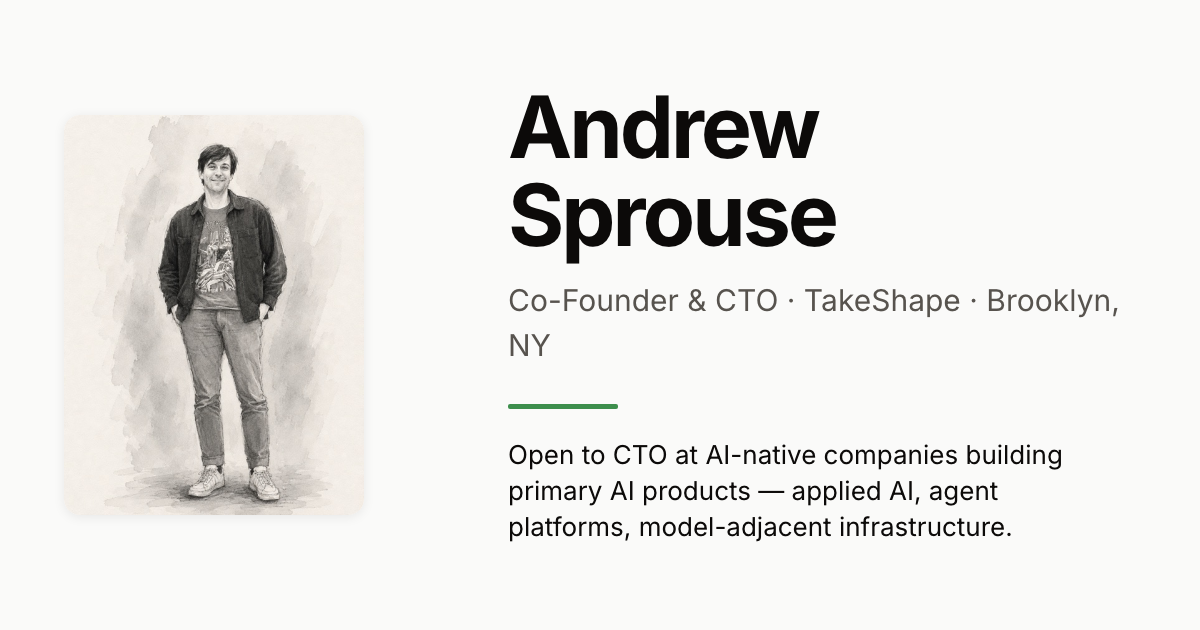
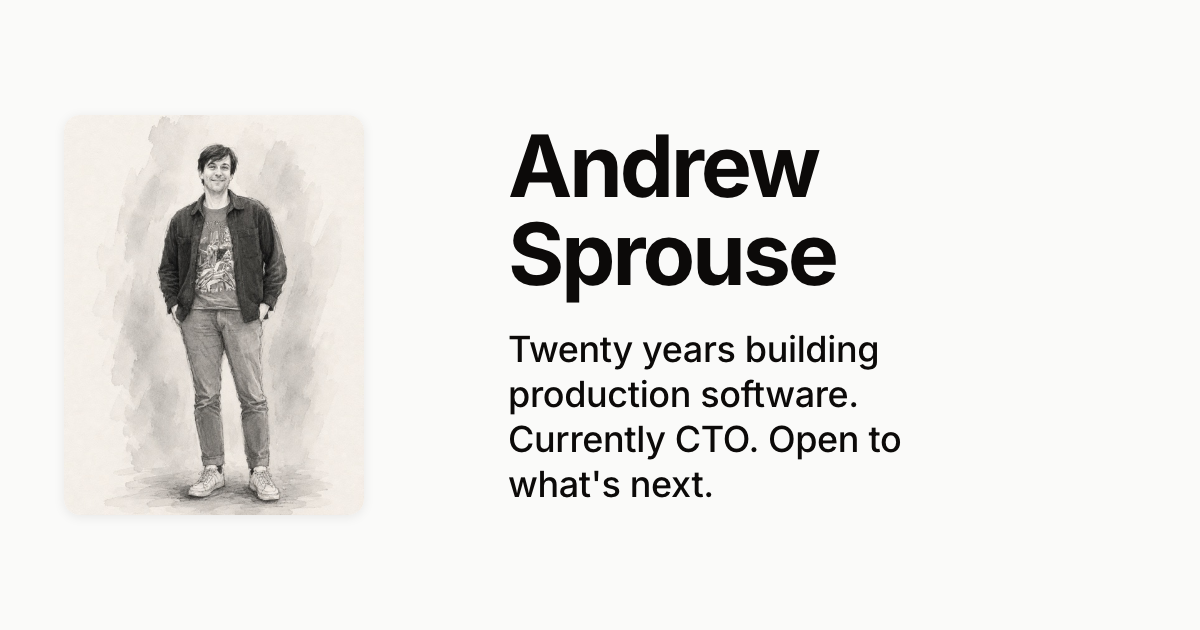
Canonical tagline lives in andrew.yml; OG matches homepage content
Three slightly different tagline strings existed: hardcoded in
src/pages/index.astro, andrew.yml's cto.tagline (different wording), and
the OG card showing cto.openTo instead of any tagline at all. Consolidated:

1. Added top-level `tagline` to andrew.yml as the canonical one-line pitch.
   Schema requires it.
2. Homepage reads `resume.tagline` instead of its hardcoded string.
3. OG strips role-line + brand-rule + openTo and renders just name +
   tagline with bigger type — matches the homepage's "name + tagline +
   portrait" shape, just laid out for 1200×630 landscape.
4. cto.tagline (used on /cv?lens=cto) updated to match the canonical, so
   the CTO lens page reads consistently with the homepage. Principal and
   cofounder taglines stay lens-specific as before.

Regenerated public/og.png — 197 KB → 189 KB after dropping the third
text element.

Changed region(s): [[0.4008, 0.1508, 0.925, 0.6032], [0.4008, 0.6032, 0.8942, 0.8746]]

diff --git a/src/types/resume.ts b/src/types/resume.ts
@@ -20,6 +20,10 @@ export type TechCategory =
 export interface Resume {
   $schema?: string;
   person: Person;
+  /**
+   * Canonical one-line elevator pitch shown on the homepage and OG image. Variant-specific taglines (variants[X].tagline) override per CV lens.
+   */
+  tagline: string;
   summary: string;
   experience: ExperienceEntry[];
   education: EducationEntry[];
